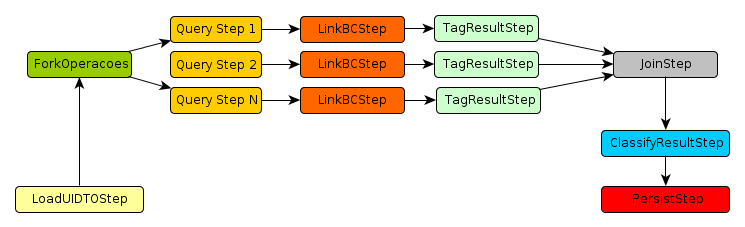
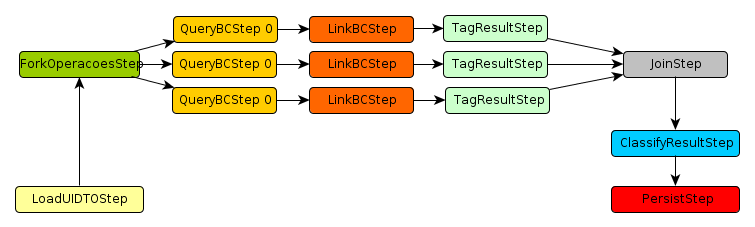
Estruturando a apresentação

diff --git a/index.html b/index.html
@@ -132,11 +132,11 @@
 					<!--<img data-src="img/app-archtiecture.svg">-->
 				</section>
 				<section data-background="#dddddd">
-					<h2>Casos de Uso</h2>
+					<p>Workflow para enriquecimento de dados</p>
 					<img data-src="img/fluxos_pipeline.png">
 				</section>
 				<section>
-					<h2>Casos de Uso</h2>
+					<p>Workflow para enriquecimento de dados</p>
 					<pre>
 						<code class="hljs" data-trim>
 							var templateStep = new QueryBCStep(stepConfig);
@@ -151,6 +151,62 @@
 									.nextStep(callback);
 
 							stepInicial.execute(stepContext, request.getUIID());
+						</code>
+					</pre>
+				</section>
+				<section>
+					<p>Workflow para enriquecimento de dados</p>
+					<pre>
+						<code class="hljs" data-trim>
+							<!--
+							List<CompletableFuture<List<UIDTO>>> promises = this.executaOperacoes(stepContext, uidto);
+							proceed(stepContext, promises);
+							-->
+						</code>
+					</pre>
+				</section>
+				<section>
+					<p>Workflow para enriquecimento de dados</p>
+					<pre>
+						<code class="hljs" data-trim>
+							<!--
+							protected CompletableFuture<List<UIDTO>> criarPromiseComTodosValores(List<CompletableFuture<List<UIDTO>>> promises) {
+								try {
+									CompletableFuture allOf = CompletableFuture.allOf(promises.toArray(new CompletableFuture[promises.size()]));
+									CompletableFuture<List<UIDTO>> allPromises = allOf;
+									return allPromises.thenApply((uis) -> {
+										List<UIDTO> valores = new ArrayList<UIDTO>();
+										for (CompletableFuture<List<UIDTO>> promise : promises) {
+											try {
+												List<UIDTO> lista = promise.get();
+												if (lista != null) {
+													valores.addAll(lista);
+												}
+											} catch (Exception e) {
+												tratarErro(e);
+											}
+										}
+										return valores;
+									});
+								} catch (Exception e) {
+									tratarErro(e);
+									return CompletableFuture.completedFuture(Collections.emptyList());
+								}
+							}
+							-->
+						</code>
+					</pre>
+				</section>
+				<section>
+					<p>Workflow para enriquecimento de dados</p>
+					<pre>
+						<code class="hljs" data-trim>
+							<!--
+							CompletableFuture<List<UIDTO>> uisFuture = this.criarPromiseComTodosValores(promises);
+							uisFuture.whenComplete((uis, erro) -> {
+								proceed(stepContext, uis);
+							});
+							-->
 						</code>
 					</pre>
 				</section>
